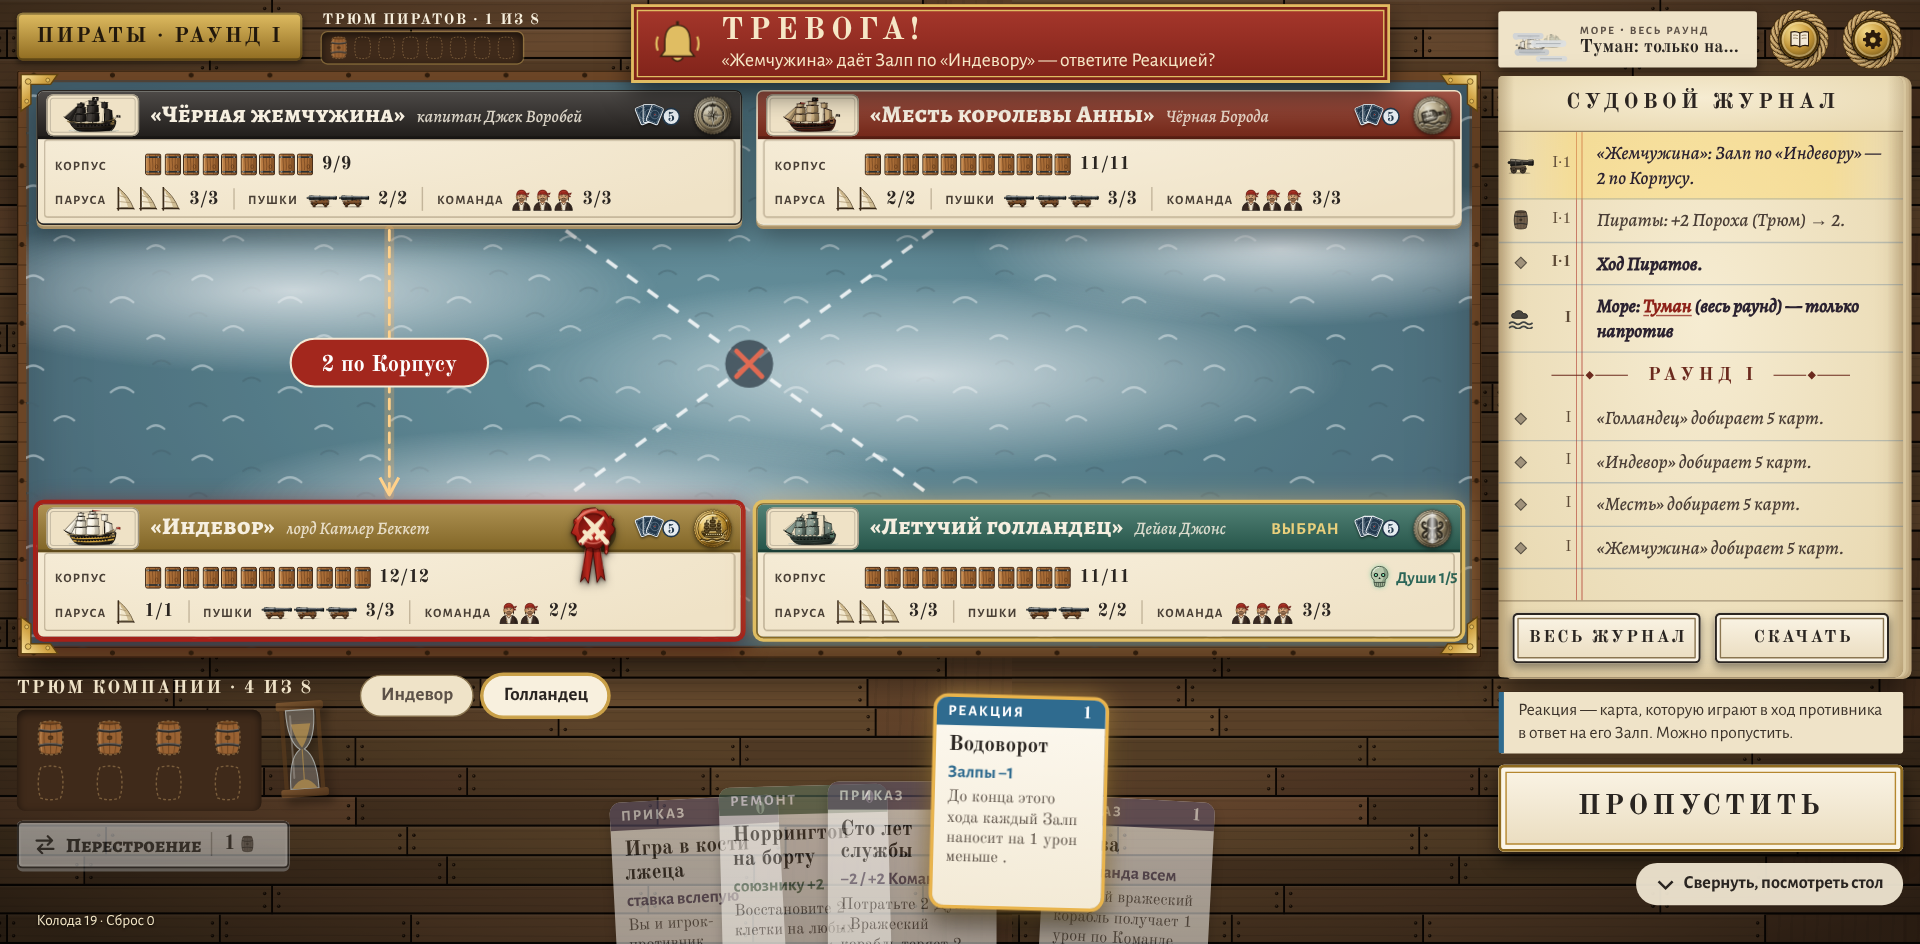
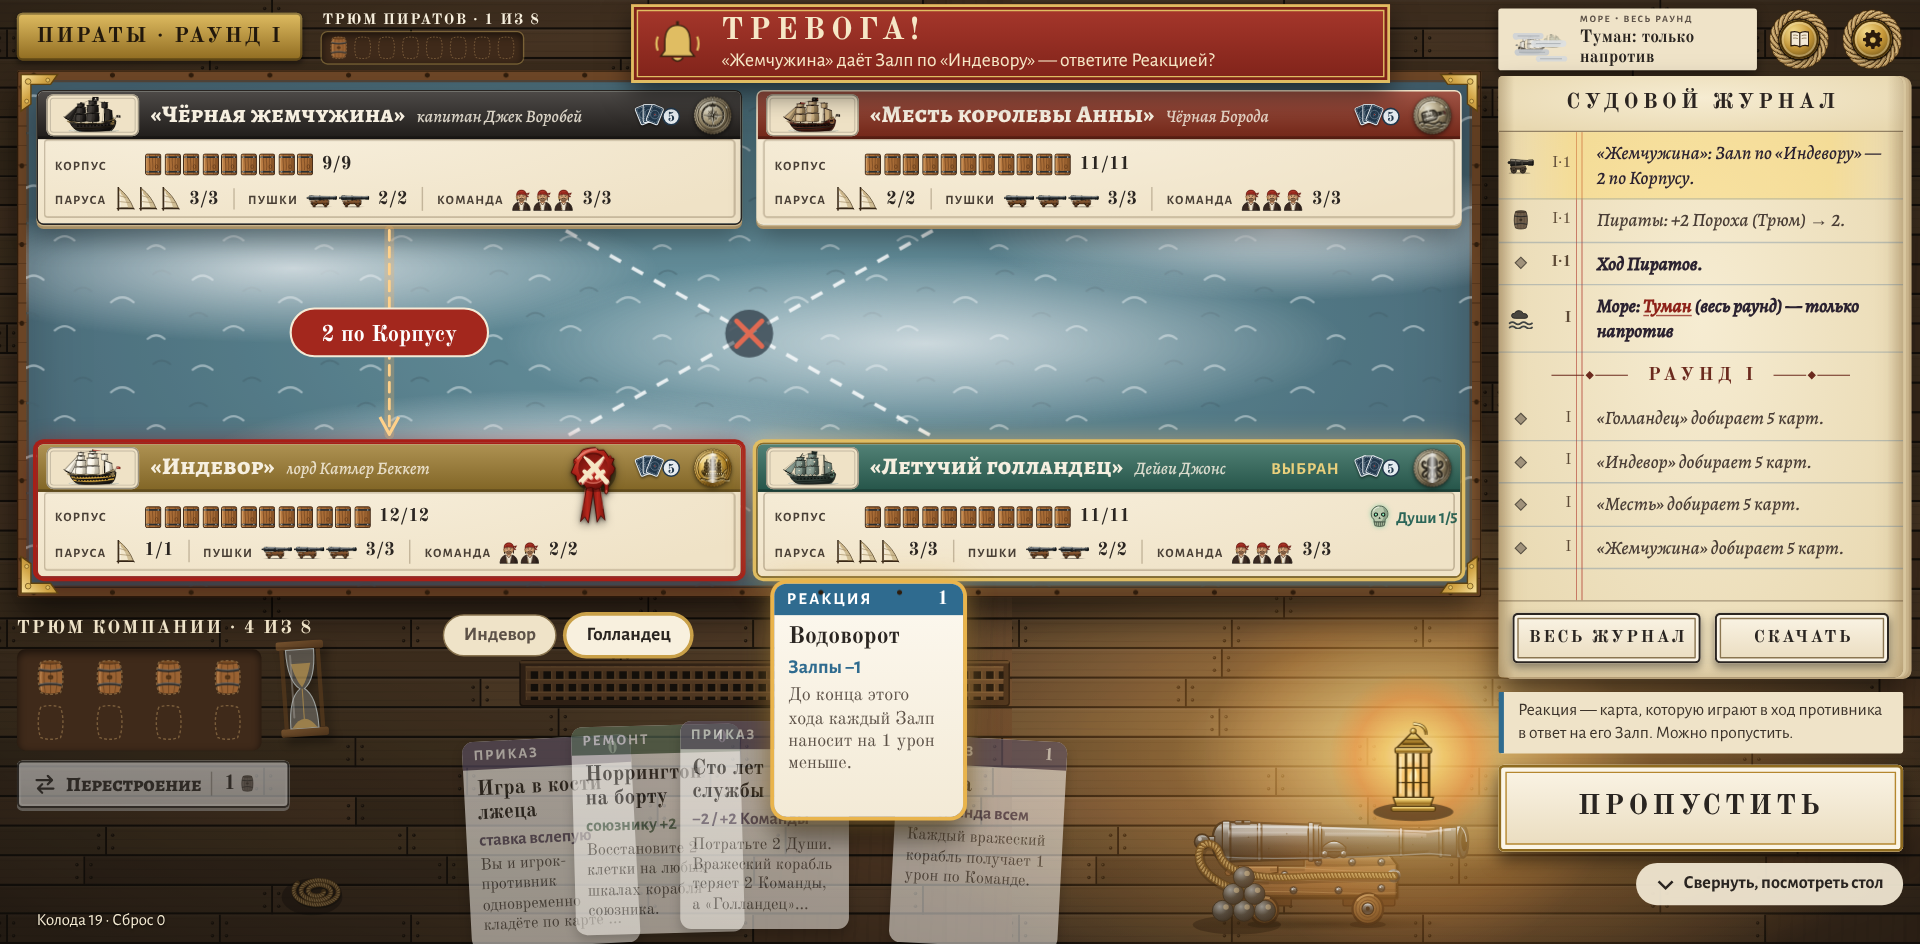
fix-ui: «Палуба» in «Тревога!» — the gun and the lantern stay (the background measured by «Ход окончен», which «Пропустить» replaces: now by its place in the column of the log; nothing to measure by — the last place). «Свернуть, посмотреть стол» checked: the Reactions go down past the edge, the plat
Claude-Session: https://claude.ai/code/session_01UXS1NUC4XPGowVXMxP1RUW

diff --git a/src/ui/game/TableThings.tsx b/src/ui/game/TableThings.tsx
@@ -137,7 +137,8 @@ function deckPlace(game: HTMLElement): DeckPlace | null {
     const glint = { l: gun.l + 66 * gs, t: gun.t + 3 * gs, w: 54 * gs, h: 7 * gs };
     return { phone: true, W, H, pieces: [gun, balls, lantern], lx, ly, ls, hook, glint };
   }
-  const end = rect(visible(game, '[data-testid="end-turn"]'), g);
+  // «Ход окончен»; in «Тревога!» its place holds «Пропустить» — then the column of the log it stands in (fix-ui)
+  const end = rect(visible(game, '[data-testid="end-turn"]'), g) ?? rect(visible(game, '.log-col .alarm-actions'), g) ?? rect(game.querySelector('.log-col'), g);
   const undo = rect(visible(game, '.log-col .undo'), g);
   if (!end || !cardsBox) return null;
   // L — right of «Трюм + часы + Перестроение» + 24; R — left of «Ход окончен» + «Отменить» − 16
@@ -274,7 +275,9 @@ export function TableBackdrop({ look }: { look: 'deck' | 'table' }) {
         // transitions of the cards bring the measure back when the pointer has gone)
         if (game.querySelector('.hand-cards > .hcard:hover, .hand-cards > .hcard:focus-visible') && !matchMedia('(max-width: 700px)').matches) return;
         const d = deckPlace(game);
-        setDeck((old) => (old && d && JSON.stringify(old) === JSON.stringify(d) ? old : d));
+        // nothing to measure by (in «Тревога!» there is no «Ход окончен»): the gun and the lantern stay where they were
+        if (!d) return;
+        setDeck((old) => (old && JSON.stringify(old) === JSON.stringify(d) ? old : d));
         // the hand in the middle of its strip (paddings of .hand-cards, read by useFanFit), whole in the window, its tabs over it
         const hd = d?.hand;
         // set only what changed
